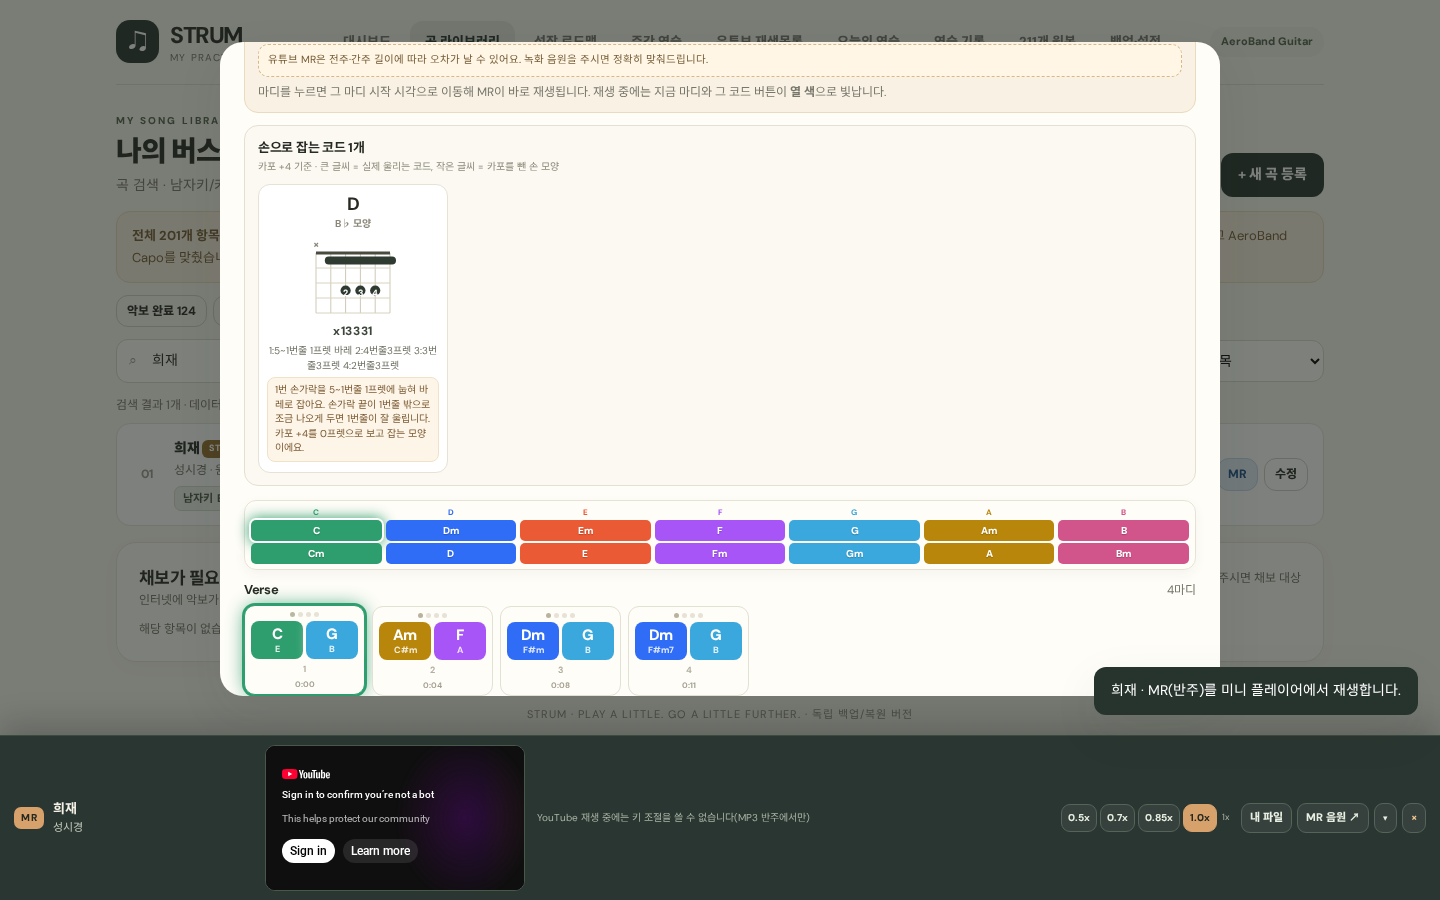
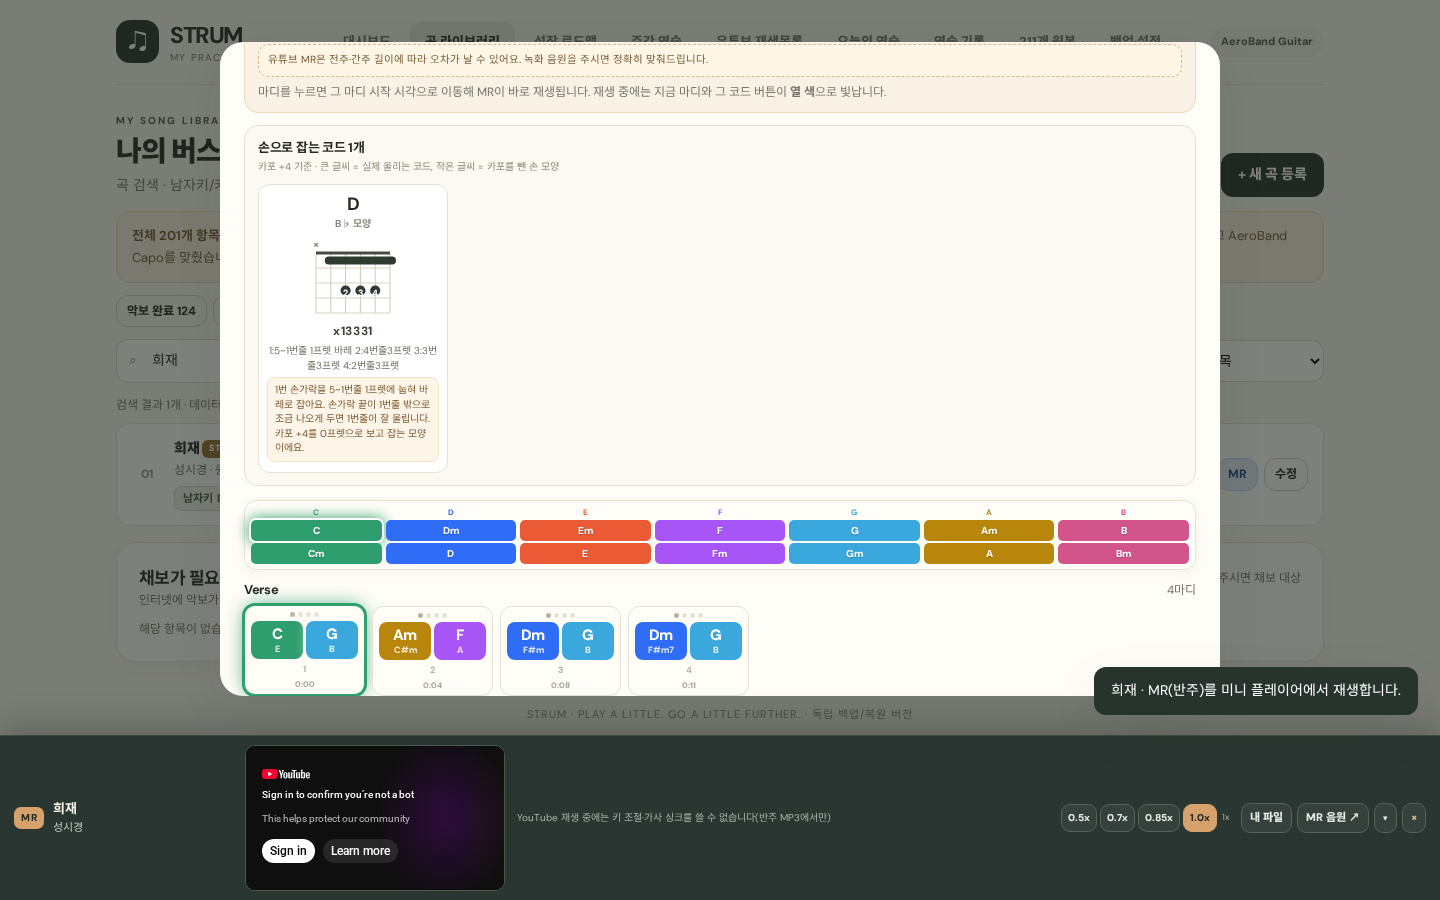
fix: YouTube 원곡 재생에는 가사 싱크를 켜지 않음(반주 녹화 시각 기준이라 어긋남) · 미니바 안내 문구 수정

Changed region(s): [[0.1562, 0.8089, 0.3125, 0.9956], [0.3438, 0.8089, 0.5625, 0.9956]]

diff --git a/src/app.js b/src/app.js
@@ -1074,9 +1074,10 @@
     const watch=mini.watch||(s?((mini.kind==='mr'?s.mrUrl:s.videoUrl)||''):'');
     const isAudio=mini.kind==='audio'||mini.kind==='mraudio';
     const shift=mini.kind==='mraudio'?mrShiftOf(mini.songId):0;
+    const canLyric = !!lyricsOf(s) && (mini.kind === 'mraudio' || mini.kind === 'audio');
     const keyBar=mini.kind==='mraudio'
       ?`<div class="mini-key" id="mini-key" role="group" aria-label="키 조절"><button type="button" class="mini-btn" data-act="mini-shift:-1" aria-label="반음 내리기" title="반음 내리기">−</button><b class="mini-key-label" id="mini-key-label">${mrShiftLabel(shift)}</b><button type="button" class="mini-btn" data-act="mini-shift:1" aria-label="반음 올리기" title="반음 올리기">＋</button><span class="mini-key-hint">−6~+6반음 · 템포 유지</span></div>`
-      :(mini.collapsed||mini.kind==='lesson'?'':`<span class="mini-key-note">YouTube 재생 중에는 키 조절을 쓸 수 없습니다(MP3 반주에서만)</span>`);
+      :(mini.collapsed||mini.kind==='lesson'?'':`<span class="mini-key-note">YouTube 재생 중에는 키 조절·가사 싱크를 쓸 수 없습니다(반주 MP3에서만)</span>`);
     const body=isAudio
       ?`<audio class="mini-audio" id="mini-audio" controls autoplay preload="metadata" src="${esc(mini.audioUrl)}"></audio>`
       :`<div class="mini-frame"><div class="yt-host" id="yt-host"></div></div>`;
@@ -1086,7 +1087,7 @@
     miniRoot.innerHTML=`<section class="mini-player ${mini.collapsed?'collapsed':''}" id="mini-player" aria-label="하단 미니 플레이어">
       <div class="mini-info"><span class="mini-badge">${esc(mini.badge)}</span><div class="mini-text"><b>${esc(mini.title)}</b><span>${esc(mini.sub)}</span></div></div>
       ${body}
-      ${lyricsOf(s) ? `<div class="mini-lyric" id="mini-lyric" aria-live="polite"><span class="ly-tag" id="mini-lyric-tag">가사</span><b class="ly-now" id="mini-lyric-now"></b><span class="ly-next" id="mini-lyric-next"></span></div>` : ''}
+      ${canLyric ? `<div class="mini-lyric" id="mini-lyric" aria-live="polite"><span class="ly-tag" id="mini-lyric-tag">가사</span><b class="ly-now" id="mini-lyric-now"></b><span class="ly-next" id="mini-lyric-next"></span></div>` : ''}
       ${keyBar}
       ${rateBar}
       <div class="mini-tools"><button type="button" class="mini-btn" data-act="mini-local" title="휴대폰에 저장한 오디오 파일 재생">내 파일</button><a class="mini-btn" href="${link}" target="_blank" rel="noopener noreferrer">${linkLabel}</a><button type="button" class="mini-btn" data-act="mini-collapse" aria-label="${mini.collapsed?'펼치기':'접기'}" title="${mini.collapsed?'펼치기':'접기'}">${mini.collapsed?'▴':'▾'}</button><button type="button" class="mini-btn mini-close" data-act="mini-close" aria-label="미니 플레이어 닫기" title="닫기">×</button></div>
